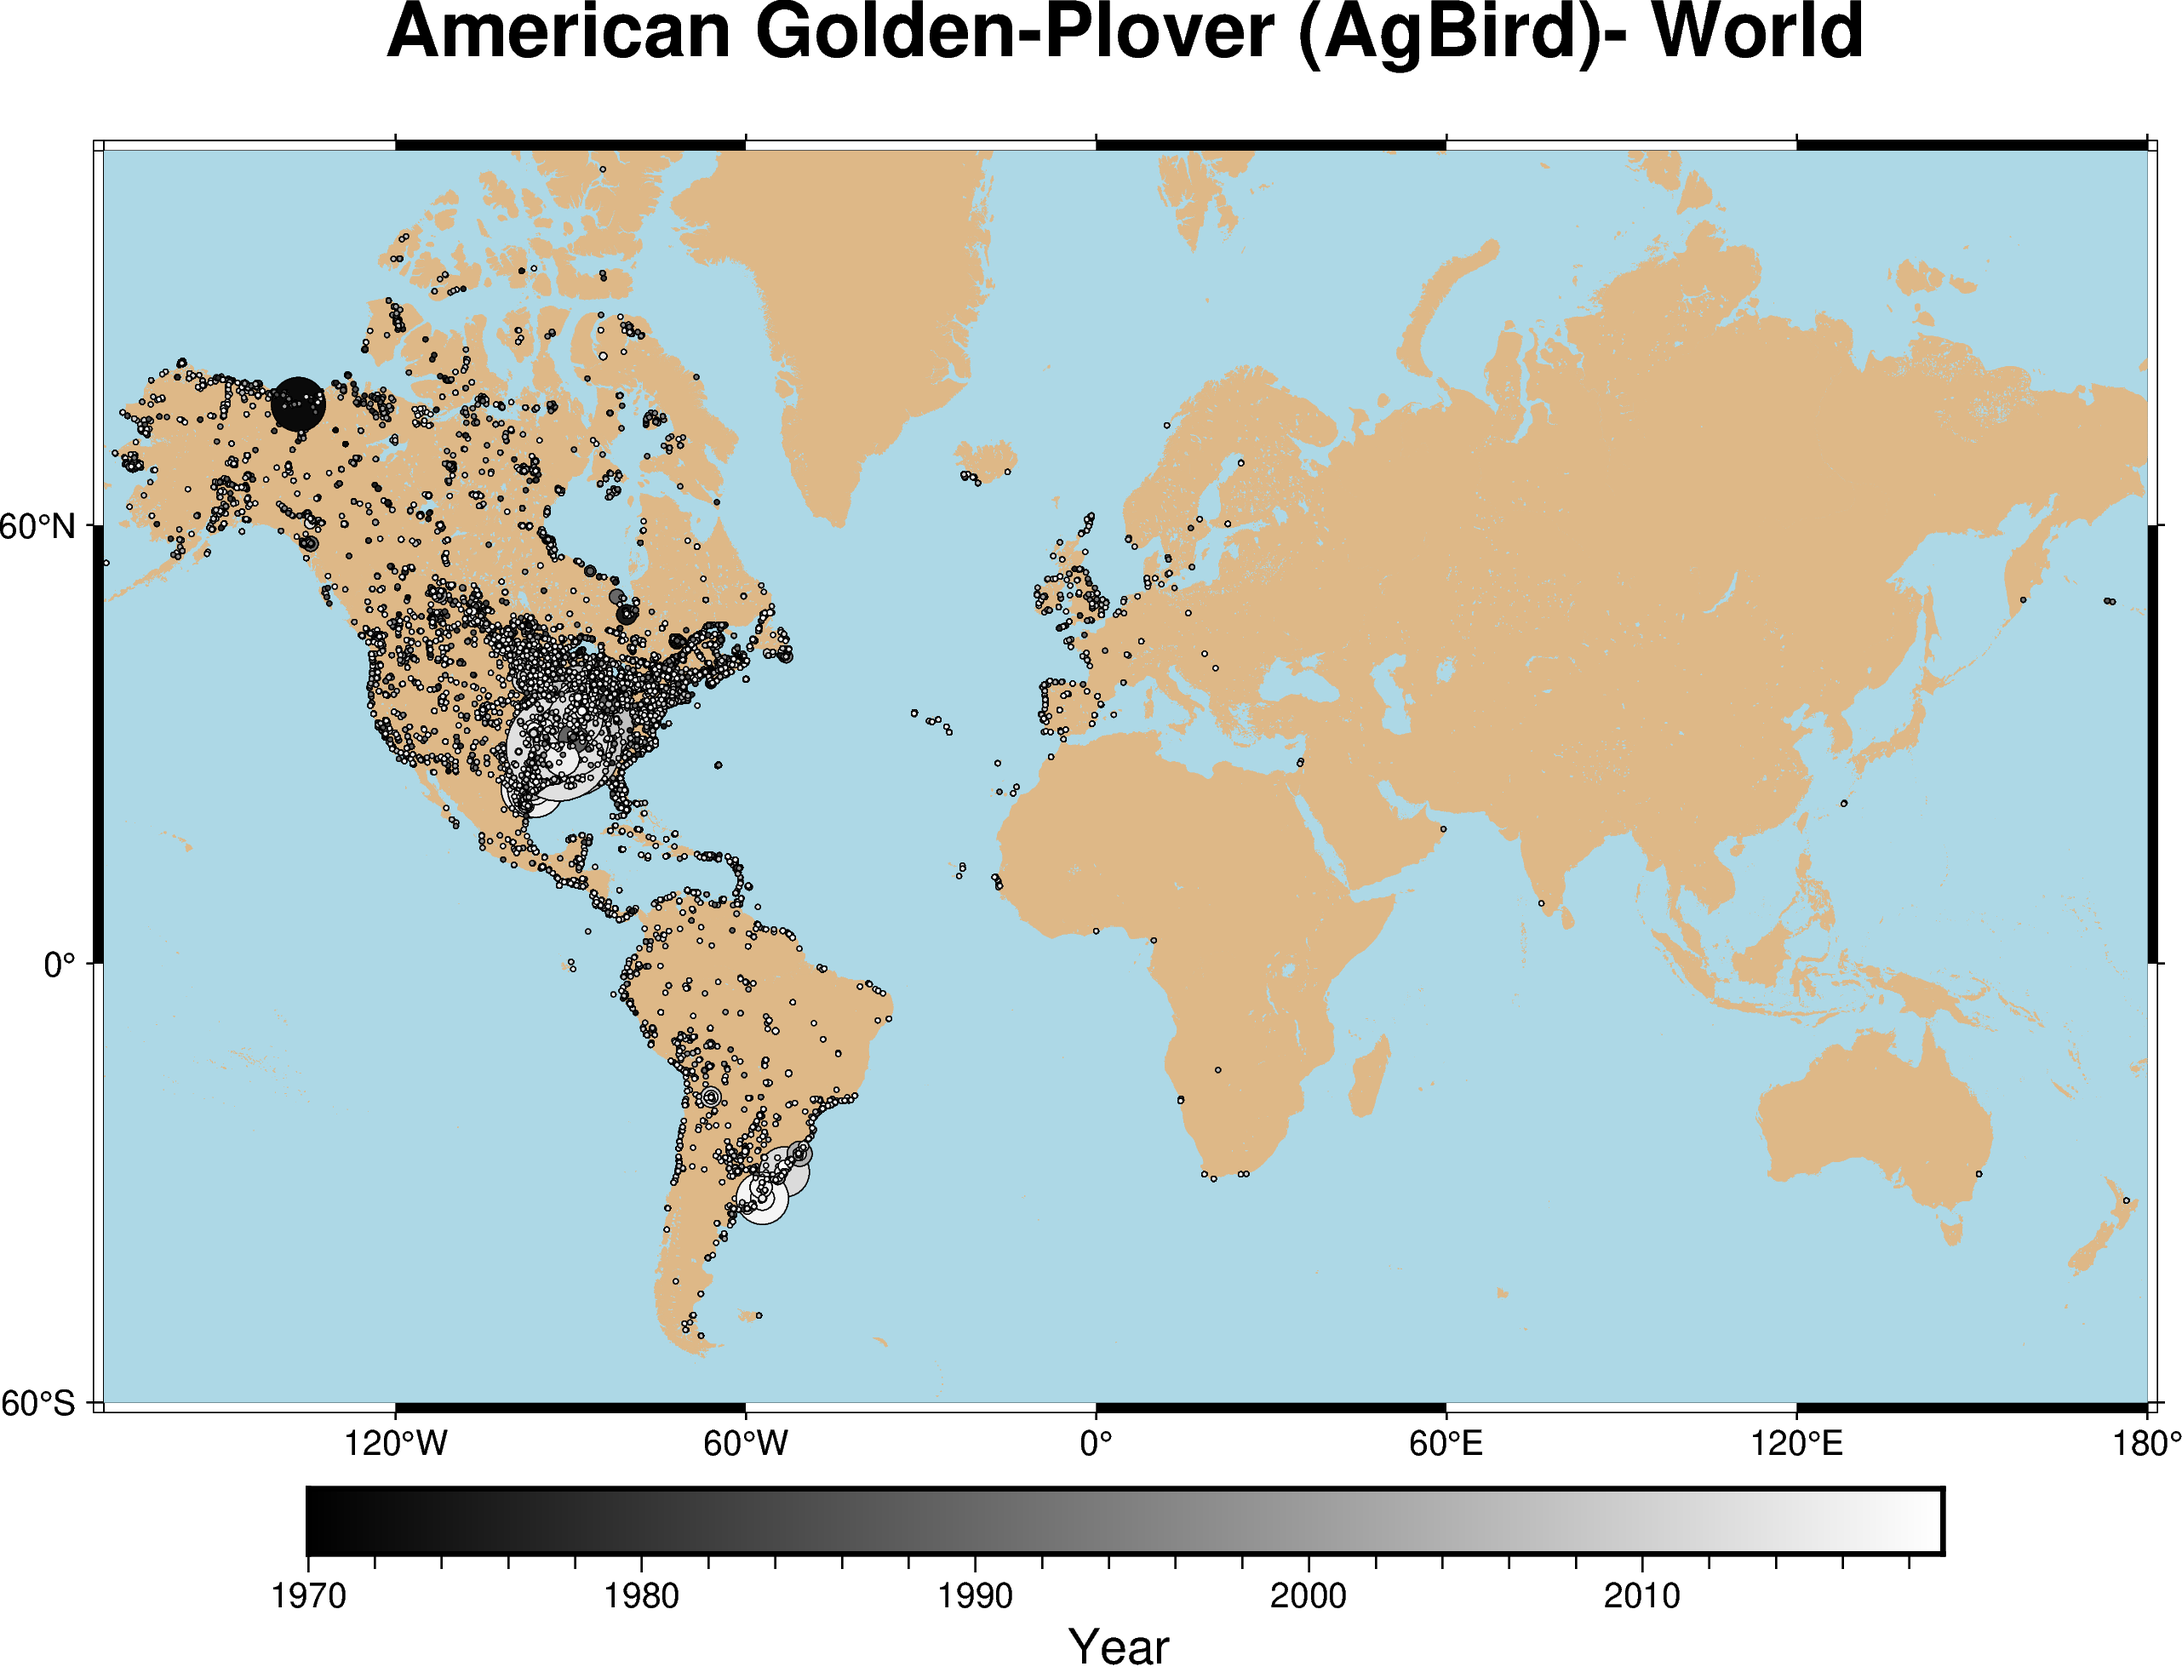
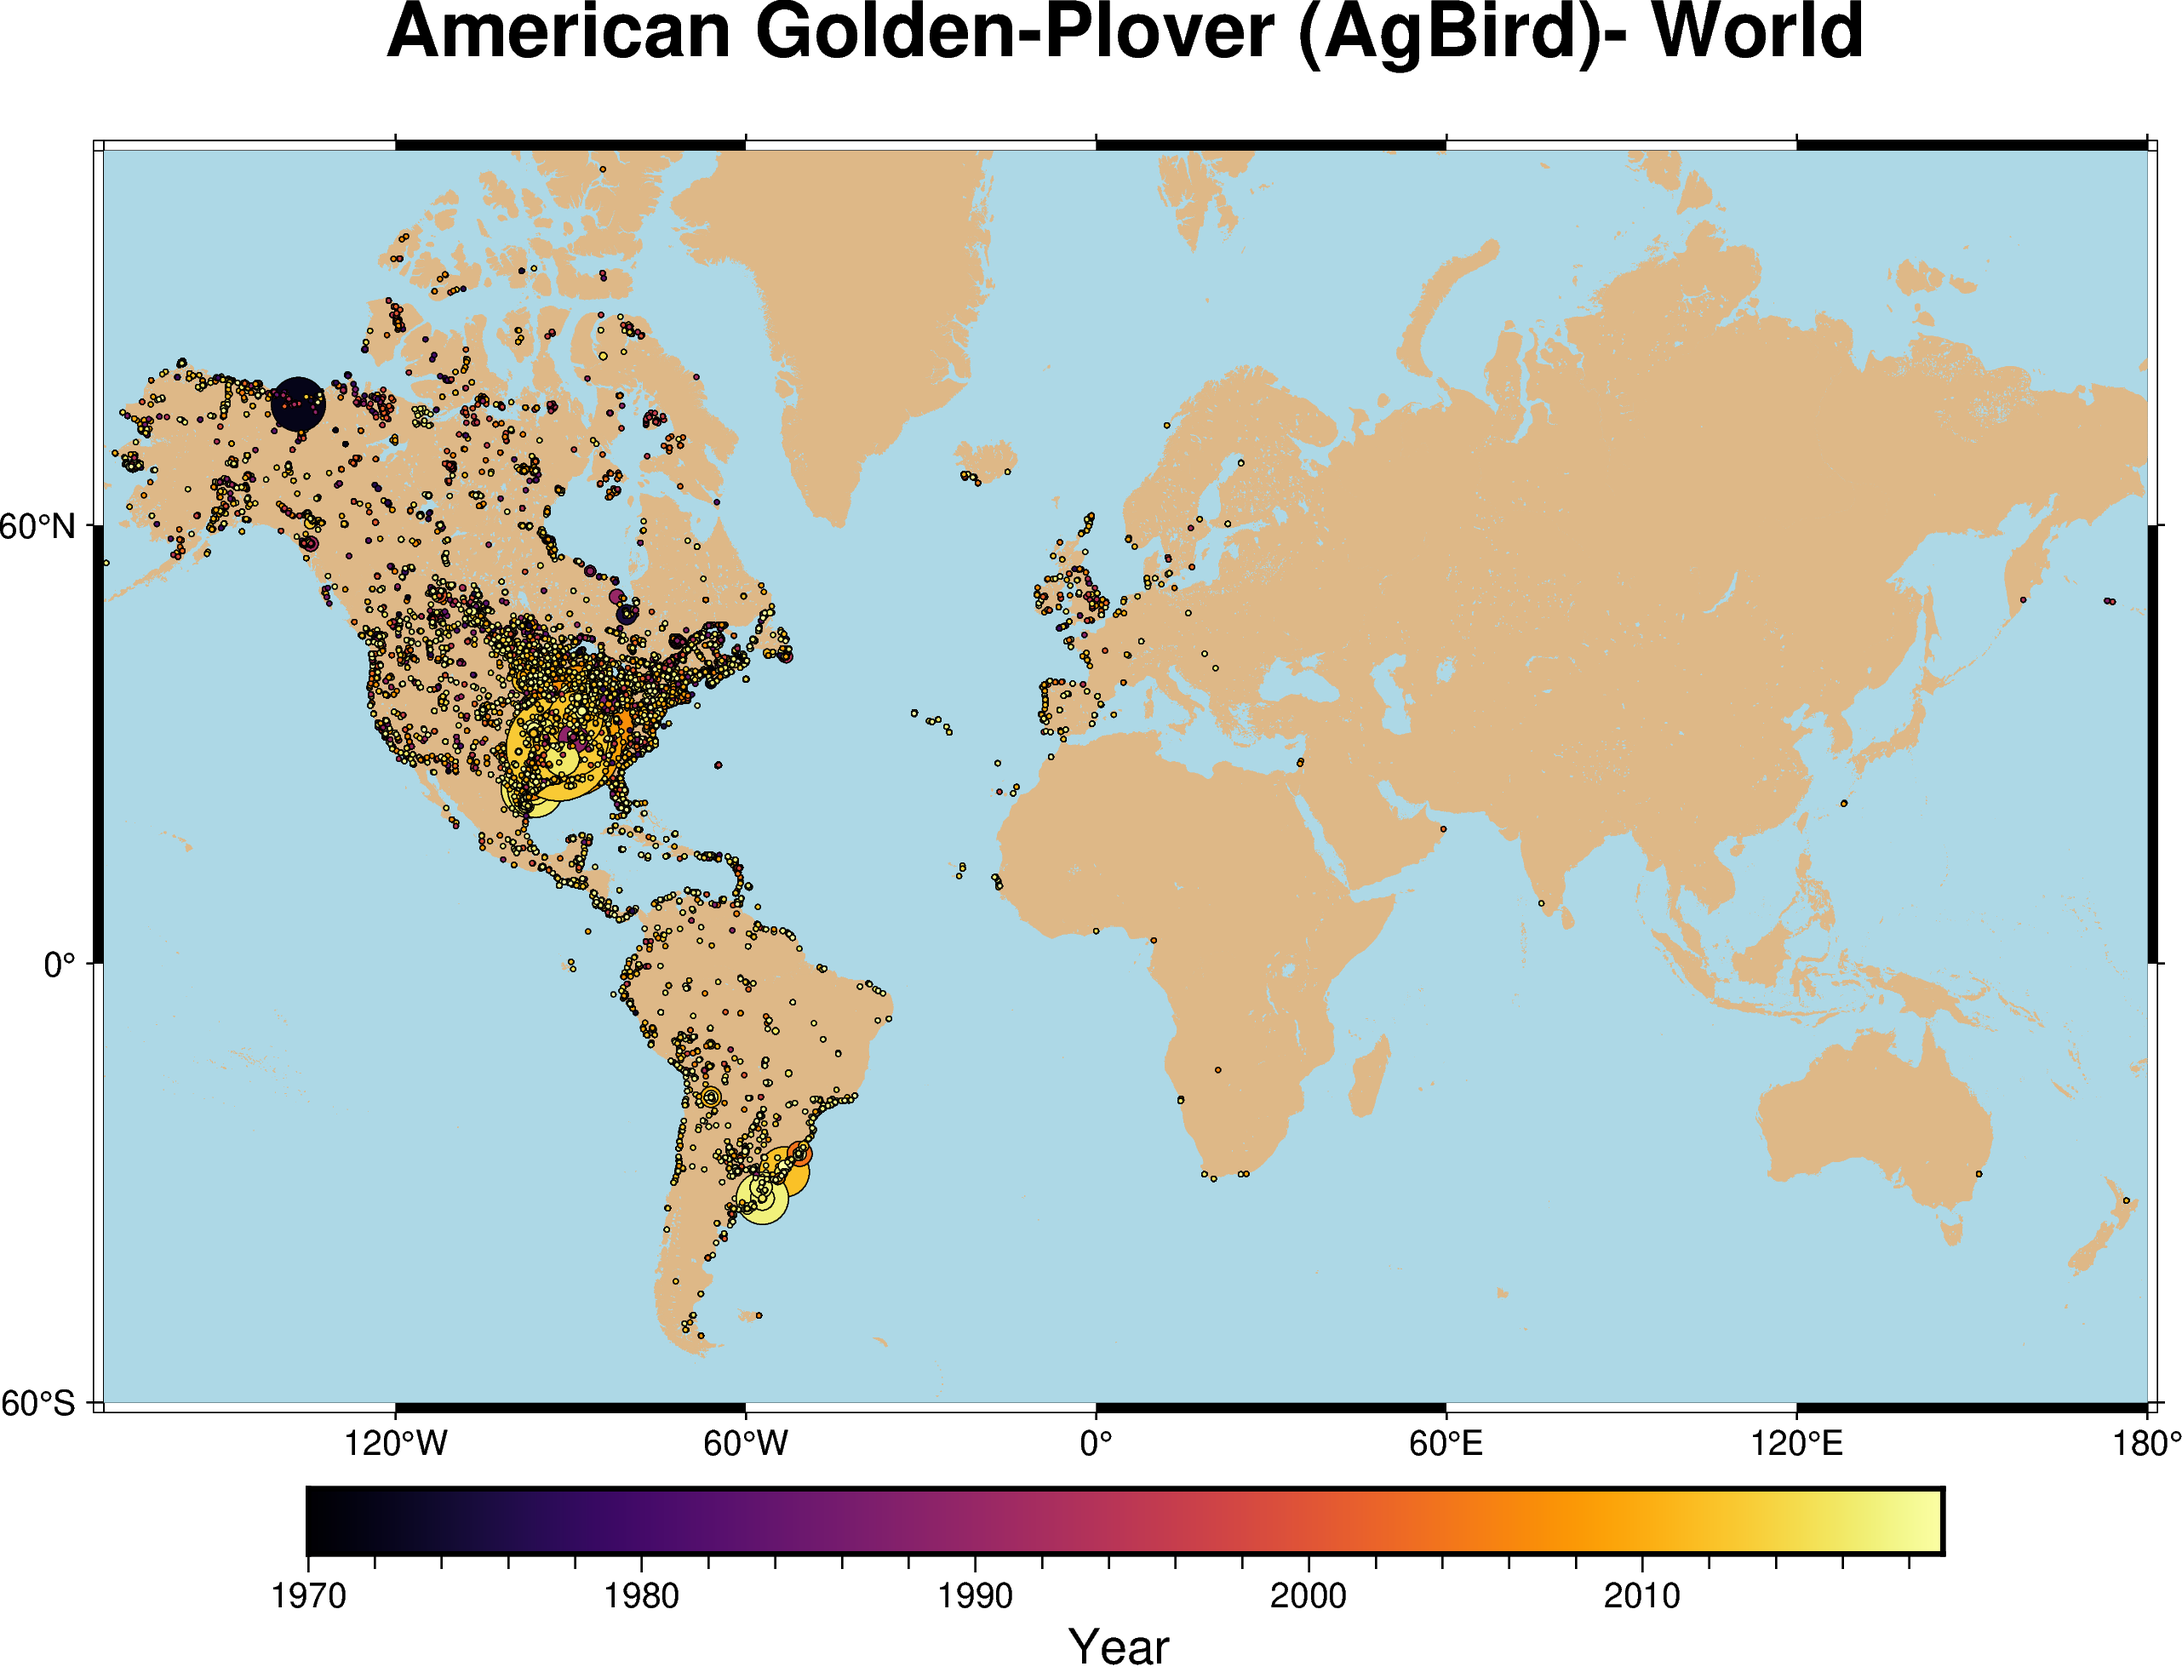
Scatterplots and Such

diff --git a/sorting.py b/sorting.py
@@ -3,6 +3,7 @@ import numpy as np
 import pygmt
 import datetime
 import matplotlib.pyplot as plt
+import matplotlib as matplotlib
 import statsmodels.graphics.api as smg
 import statsmodels.api as sm
 from scipy import stats
@@ -111,8 +112,22 @@ magStrength3060S = newm['intensity'].values.tolist()
 otherm = magData30N90W.copy().query('2000 <= year < 2020')
 magStrength30N90W = otherm['intensity'].values.tolist()
 
+print(matplotlib.get_cachedir())
+
 #correlation tests
 #these are the dataframes needed for the all birds correlation
+def scatterPlot(mag, per, title, file):
+    font = {'fontname':'Helvetica', 'style':'italic'}
+    plt.clf()
+    plt.scatter(mag, per)
+    plt.title(title, **font)
+    plt.xlabel("Magnetic Strength (nT)", **font)
+    plt.ylabel("Population Density %", **font)
+    plt.grid(color='grey', linestyle='-', linewidth=0.25, alpha=0.5)
+
+    plt.savefig(file)
+    
+
 print("|------------------------------------------------------------------------|")#section start
 smallCountPercentages = (smallCount['countS'].copy() / largeCount['countS'].copy()) * 100
 smallCountWPercentages = (smallCountW['countS'].copy() / largeCountW['countS'].copy()) * 100
@@ -120,6 +135,7 @@ smallCountPPercentages = (smallCountP['countS'].copy() / largeCountP['countS'].c
 smallCountHPercentages = (smallCountH['countS'].copy() / largeCountH['countS'].copy()) * 100
 allBirdPercentages = smallCountPercentages.multiply(0.25) + smallCountWPercentages.multiply(0.25) + smallCountPPercentages.multiply(0.25) + smallCountHPercentages.multiply(0.25)
 print("> 30S60W All Birds: " + "r value = " + str(stats.pearsonr(magStrength3060S,allBirdPercentages)[0]) + "; p value = " + str(stats.pearsonr(magStrength3060S, allBirdPercentages)[1]))
+scatterPlot(magStrength3060S, allBirdPercentages, "30S60W All Birds", "30S60WAbBird.png")
 
 ploverSmallList3060S = smallCount.copy()['countS'].values.tolist()
 ploverLargeList3060S = largeCount.copy()['countS'].values.tolist()
@@ -127,11 +143,7 @@ percentagesPlover3060S = []
 for x in range(len(ploverSmallList3060S)):
     percentagesPlover3060S.append((ploverSmallList3060S[x]/ploverLargeList3060S[x]) * 100)
 print("> 30S60W American Golden-Plover: " + "r value = " + str(stats.pearsonr(magStrength3060S,percentagesPlover3060S)[0]) + "; p value = " + str(stats.pearsonr(magStrength3060S, percentagesPlover3060S)[1]))
-plt.scatter(magStrength3060S, percentagesPlover3060S)
-plt.title("30S60W American Golden-Plover")
-plt.xlabel("Magnetic Strength (nT)")
-plt.ylabel("Population Density %")
-plt.show()
+scatterPlot(magStrength3060S, percentagesPlover3060S, "30S60W American Golden-Plover", "30S60WAgBird.png")
 
 whiteSmallList3060S = smallCountW.copy()['countS'].values.tolist()
 whiteLargeList3060S = largeCountW.copy()['countS'].values.tolist()
@@ -139,6 +151,7 @@ percentagesWhite3060S = []
 for x in range(len(whiteSmallList3060S)):
     percentagesWhite3060S.append((whiteSmallList3060S[x]/whiteLargeList3060S[x]) * 100)
 print("> 30S60W White-rumped Sandpiper: " + "r value = " + str(stats.pearsonr(magStrength3060S,percentagesWhite3060S)[0]) + "; p value = " + str(stats.pearsonr(magStrength3060S, percentagesWhite3060S)[1]))
+scatterPlot(magStrength3060S, percentagesWhite3060S, "30S60W White-rumped Sandpiper", "30S60WWrBird.png")
 
 pectoralSmallList3060S = smallCountP.copy()['countS'].values.tolist()
 pectoralLargeList3060S = largeCountP.copy()['countS'].values.tolist()
@@ -146,6 +159,7 @@ percentagesPectoral3060S = []
 for x in range(len(pectoralSmallList3060S)):
     percentagesPectoral3060S.append((pectoralSmallList3060S[x]/pectoralLargeList3060S[x]) * 100)
 print("> 30S60W Pectoral Sandpiper: " + "r value = " + str(stats.pearsonr(magStrength3060S,percentagesPectoral3060S)[0]) + "; p value = " + str(stats.pearsonr(magStrength3060S, percentagesPectoral3060S)[1]))
+scatterPlot(magStrength3060S, percentagesPectoral3060S, "30S60W Pectoral Sandpiper", "30S60WPsBird.png")
 
 hawkSmallList3060S = smallCountH.copy()['countS'].values.tolist()
 hawkLargeList3060S = largeCountH.copy()['countS'].values.tolist()
@@ -153,6 +167,7 @@ percentagesHawk3060S = []
 for x in range(len(hawkSmallList3060S)):
     percentagesHawk3060S.append((hawkSmallList3060S[x]/hawkLargeList3060S[x]) * 100)
 print("> 30S60W Swainson's Hawk: " + "r value = " + str(stats.pearsonr(magStrength3060S,percentagesHawk3060S)[0]) + "; p value = " + str(stats.pearsonr(magStrength3060S, percentagesHawk3060S)[1]))
+scatterPlot(magStrength3060S, percentagesHawk3060S, "30S60W Swainson's Hawk", "30S60WShBird.png")
 
 forkSmallList3060S = smallCountF.copy()['countS'].values.tolist()
 forkLargeList3060S = largeCountF.copy()['countS'].values.tolist()
@@ -160,13 +175,15 @@ percentagesFork3060S = []
 for x in range(len(forkSmallList3060S)):
     percentagesFork3060S.append((forkSmallList3060S[x]/forkLargeList3060S[x]) * 100)
 print("> 30S60W Fork-tailed Flycatcher: " + "r value = " + str(stats.pearsonr(magStrength3060S,percentagesFork3060S)[0]) + "; p value = " + str(stats.pearsonr(magStrength3060S, percentagesFork3060S)[1]))
+scatterPlot(magStrength3060S, percentagesFork3060S, "30S60W Fork-tailed Flycatcher", "30S60WFtBird.png")
 
 NAPloverSmallList3060S = smallCountNAPlover.copy()['countS'].values.tolist()
 NAPloverLargeList3060S = largeCountNAPlover.copy()['countS'].values.tolist()
 percentagesNAPlover30N90W = []
 for x in range(len(NAPloverSmallList3060S)):
     percentagesNAPlover30N90W.append((NAPloverSmallList3060S[x]/NAPloverLargeList3060S[x]) * 100)
-print("> 30N90W American Golden-PLover: " + "r value = " + str(stats.pearsonr(magStrength30N90W,percentagesNAPlover30N90W)[0]) + "; p value = " + str(stats.pearsonr(magStrength30N90W, percentagesNAPlover30N90W)[1]))
+print("> 30N90W American Golden-Plover: " + "r value = " + str(stats.pearsonr(magStrength30N90W,percentagesNAPlover30N90W)[0]) + "; p value = " + str(stats.pearsonr(magStrength30N90W, percentagesNAPlover30N90W)[1]))
+scatterPlot(magStrength30N90W, percentagesNAPlover30N90W, "30N90W American Golden-Plover", "30N90WAgBird.png")
 
 NAWhiteSmallList3060S = smallCountNARump.copy()['countS'].values.tolist()
 NAWhiteLargeList3060S = largeCountNARump.copy()['countS'].values.tolist()
@@ -174,6 +191,7 @@ percentagesNAWhite30N90W = []
 for x in range(len(NAWhiteSmallList3060S)):
     percentagesNAWhite30N90W.append((NAWhiteSmallList3060S[x]/NAWhiteLargeList3060S[x]) * 100)
 print("> 30N90W White-rumped Sandpiper: " + "r value = " + str(stats.pearsonr(magStrength30N90W,percentagesNAWhite30N90W)[0]) + "; p value = " + str(stats.pearsonr(magStrength30N90W, percentagesNAWhite30N90W)[1]))
+scatterPlot(magStrength30N90W, percentagesNAWhite30N90W, "30N90W White-rumped Sandpiper", "30N90WWrBird.png")
 
 NAPiperSmallList3060S = smallCountNAPiper.copy()['countS'].values.tolist()
 NAPiperLargeList3060S = largeCountNAPiper.copy()['countS'].values.tolist()
@@ -181,6 +199,7 @@ percentagesNAPiper30N90W = []
 for x in range(len(NAPiperSmallList3060S)):
     percentagesNAPiper30N90W.append((NAPiperSmallList3060S[x]/NAPiperLargeList3060S[x]) * 100)
 print("> 30N90W Pectoral Sandpiper: " + "r value = " + str(stats.pearsonr(magStrength30N90W,percentagesNAPiper30N90W)[0]) + "; p value = " + str(stats.pearsonr(magStrength30N90W, percentagesNAPiper30N90W)[1]))
+scatterPlot(magStrength30N90W, percentagesNAPiper30N90W, "30N90W Pectoral Sandpiper", "30N90WPsBird.png")
 
 NAHawkSmallList3060S = smallCountNAHawk.copy()['countS'].values.tolist()
 NAHawkLargeList3060S = largeCountNAHawk.copy()['countS'].values.tolist()
@@ -188,6 +207,7 @@ percentagesNAHawk30N90W = []
 for x in range(len(NAHawkSmallList3060S)):
     percentagesNAHawk30N90W.append((NAHawkSmallList3060S[x]/NAHawkLargeList3060S[x]) * 100)
 print("> 30N90W Swainson's Hawk: " + "r value = " + str(stats.pearsonr(magStrength30N90W,percentagesNAHawk30N90W)[0]) + "; p value = " + str(stats.pearsonr(magStrength30N90W, percentagesNAHawk30N90W)[1]))
+scatterPlot(magStrength30N90W, percentagesNAHawk30N90W, "30N90W Swainson's Hawk", "30N90WShBird.png")
 
 print("|------------------------------------------------------------------------|")#section end
 
@@ -530,7 +550,7 @@ tB = tB.query("individualCount <= 10000")
 ploverFull = pygmt.Figure()
 ploverFull.basemap(region=worldRegion, projection="M8i", frame=["a", '+t"American Golden-Plover (AgBird)- World"'])
 ploverFull.coast(land="burlywood", water="lightblue", resolution="f")
-pygmt.makecpt(cmap="gray", series=[tB.year.min(), tB.year.max()])
+pygmt.makecpt(cmap="inferno", series=[tB.year.min(), tB.year.max()])
 ploverFull.plot(
     x=tB.decimalLongitude, 
     y=tB.decimalLatitude, 

diff --git a/figureMaker.py b/figureMaker.py
@@ -11,6 +11,7 @@ def mapMaker(yearMin, yearMax, birdName, rawBirdFile, latMin, latMax, lonMin, lo
     rawBirdData = pd.read_csv(rawBirdFile)
     rawBirdData = rawBirdData.loc[rawBirdData['occurrenceStatus']=='PRESENT', ['eventDate', 'individualCount', 'decimalLatitude', 'decimalLongitude', 'day', 'month', 'year']].copy()
     filteredBirdData = rawBirdData.query('@yearMin <= year <= @yearMax')
+    filteredBirdData = filteredBirdData.query('individualCount < 1000')
 
     if(latMin >= 0):
         latMinName = str(abs(latMin)) + "E"
@@ -113,3 +114,5 @@ def graphMaker(radius, yearMin, yearMax, magMin, magMax, percentMin, percentMax,
 #(radius, yearMin, yearMax, magMin, magMax, percentMin, percentMax, birdName, rawBirdFile, populationCap, rawMagData, region, latitude, longitude, latMin, latMax, lonMin, lonMax)
 graphMaker(5, 2000, 2020, 22000, 26000, 0, 100, "AgBird", "plovercsv.csv", 1000, "3060fullmag.csv", "South_America", -30, -60, -60, 0, -90, -30)
 mapMaker(2000,2020,"AgBird", "plovercsv.csv",-90, 177,-55,1)
+mapMaker(1970,2020,"AgBird", "plovercsv.csv",-150, -60,0,60)
+
